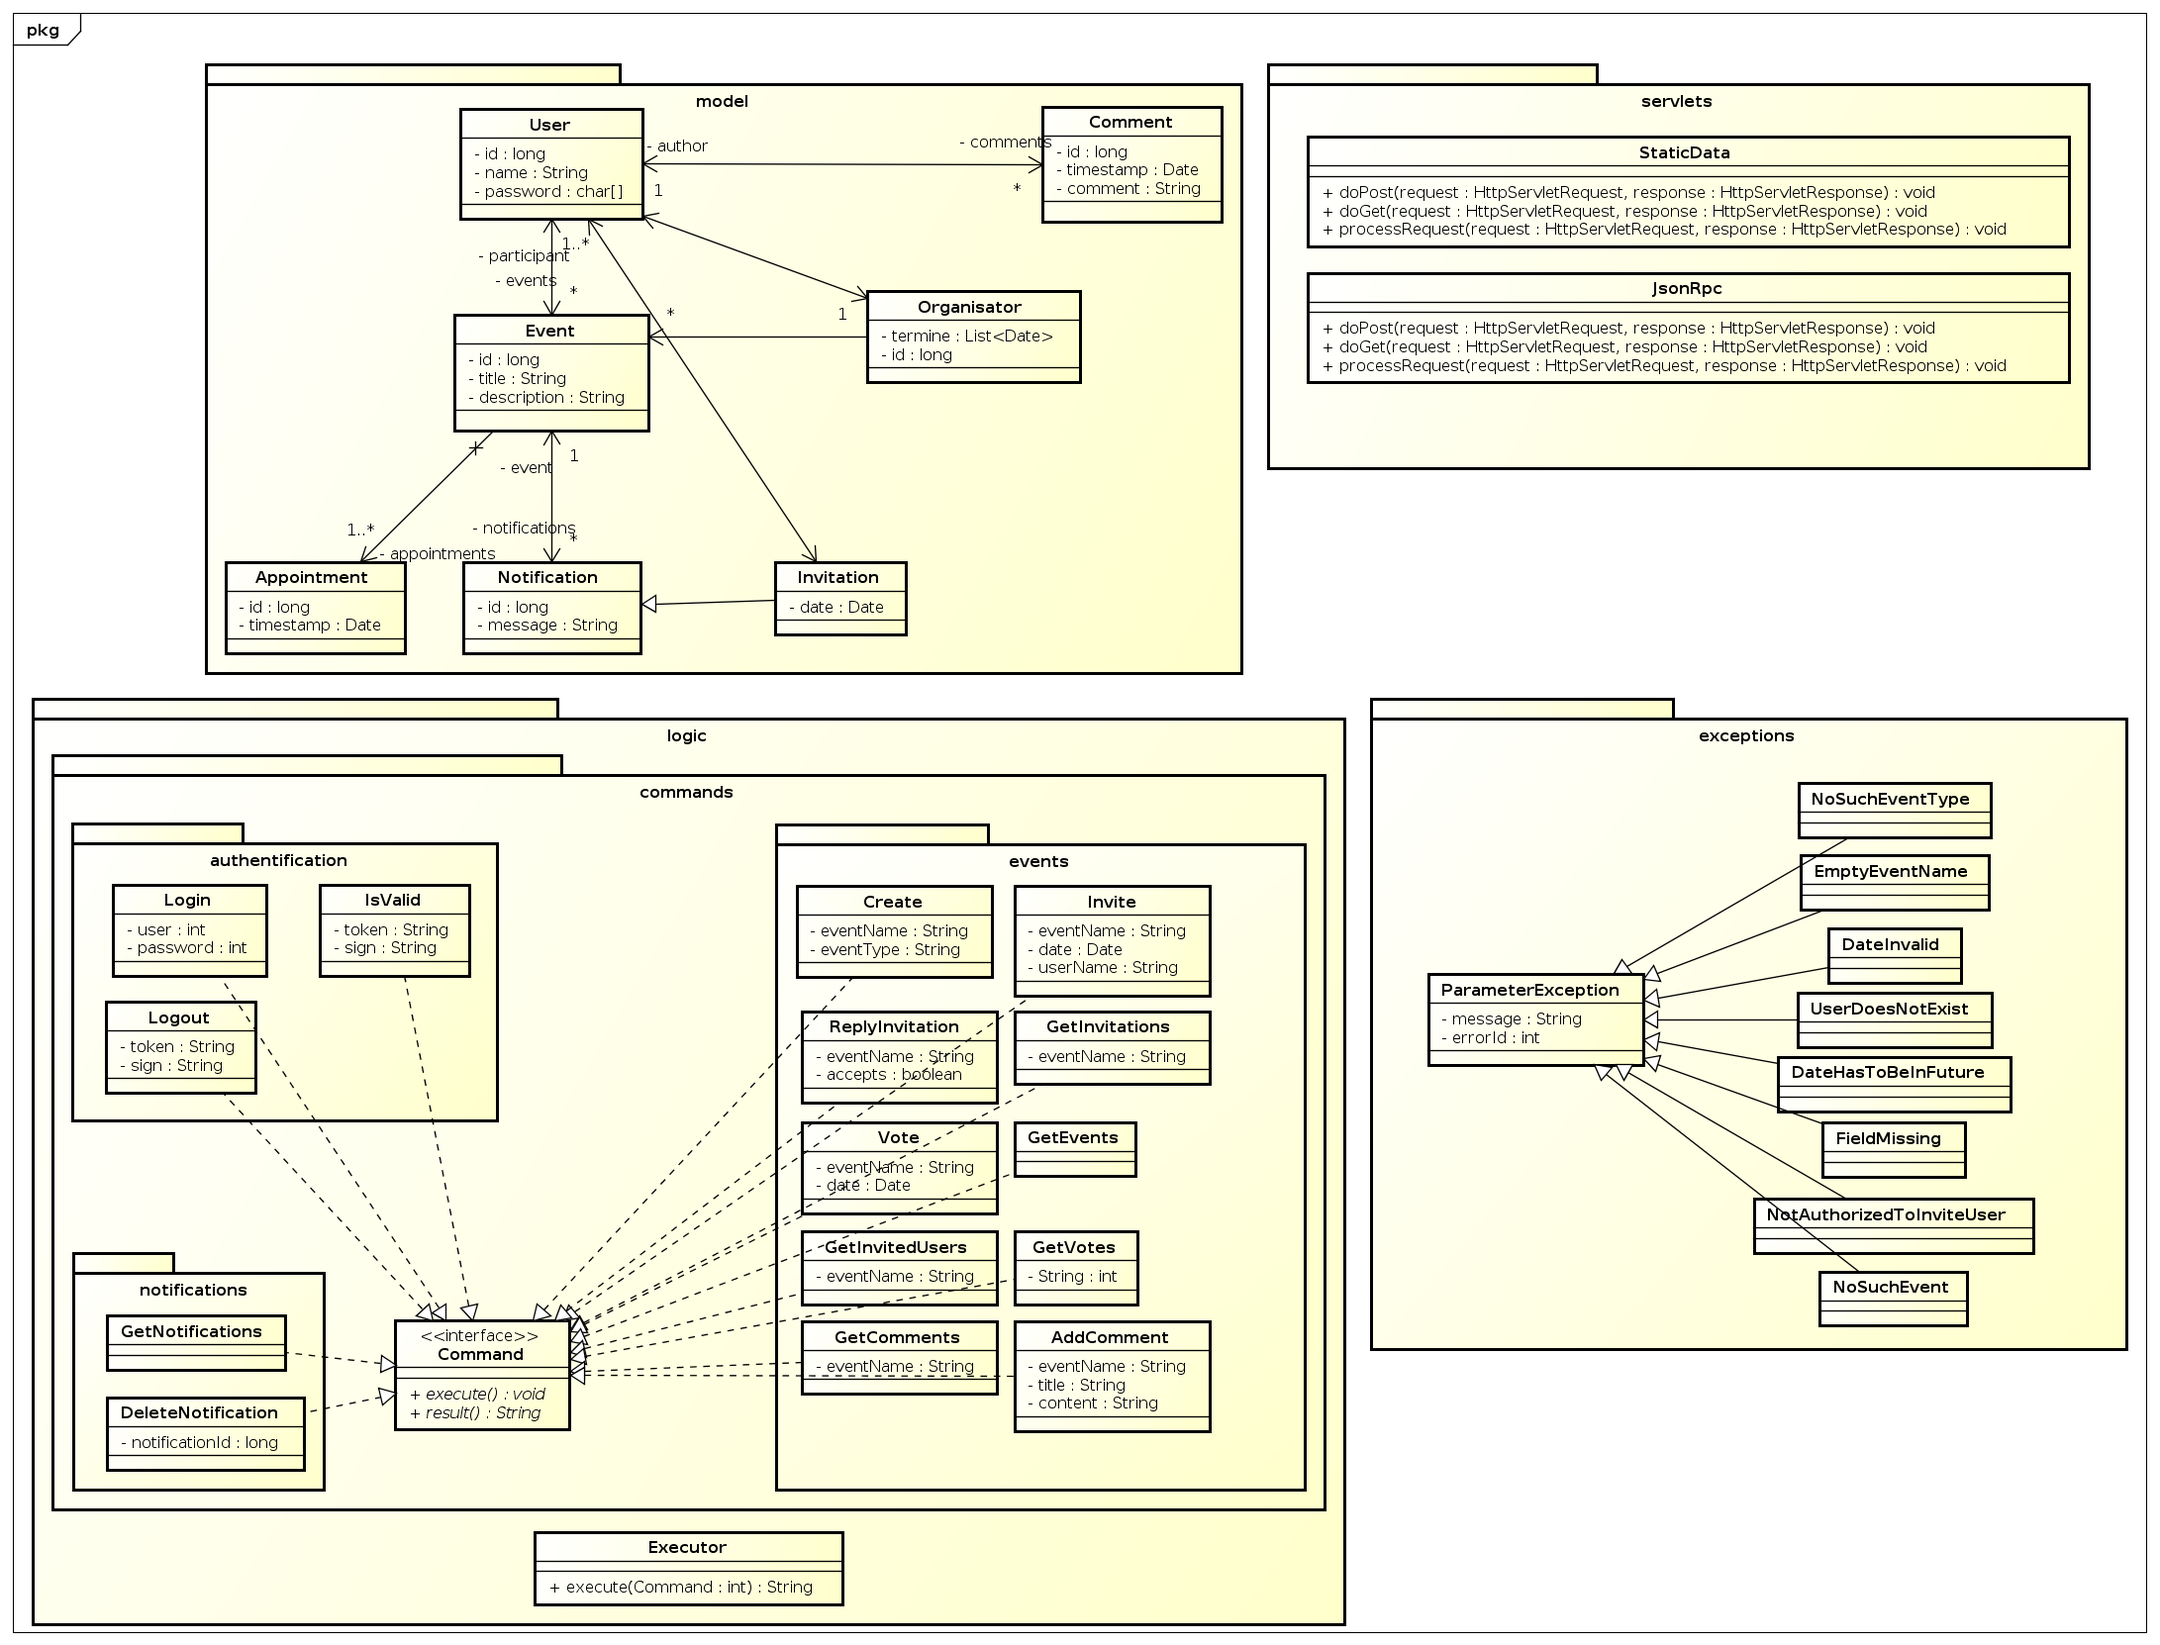
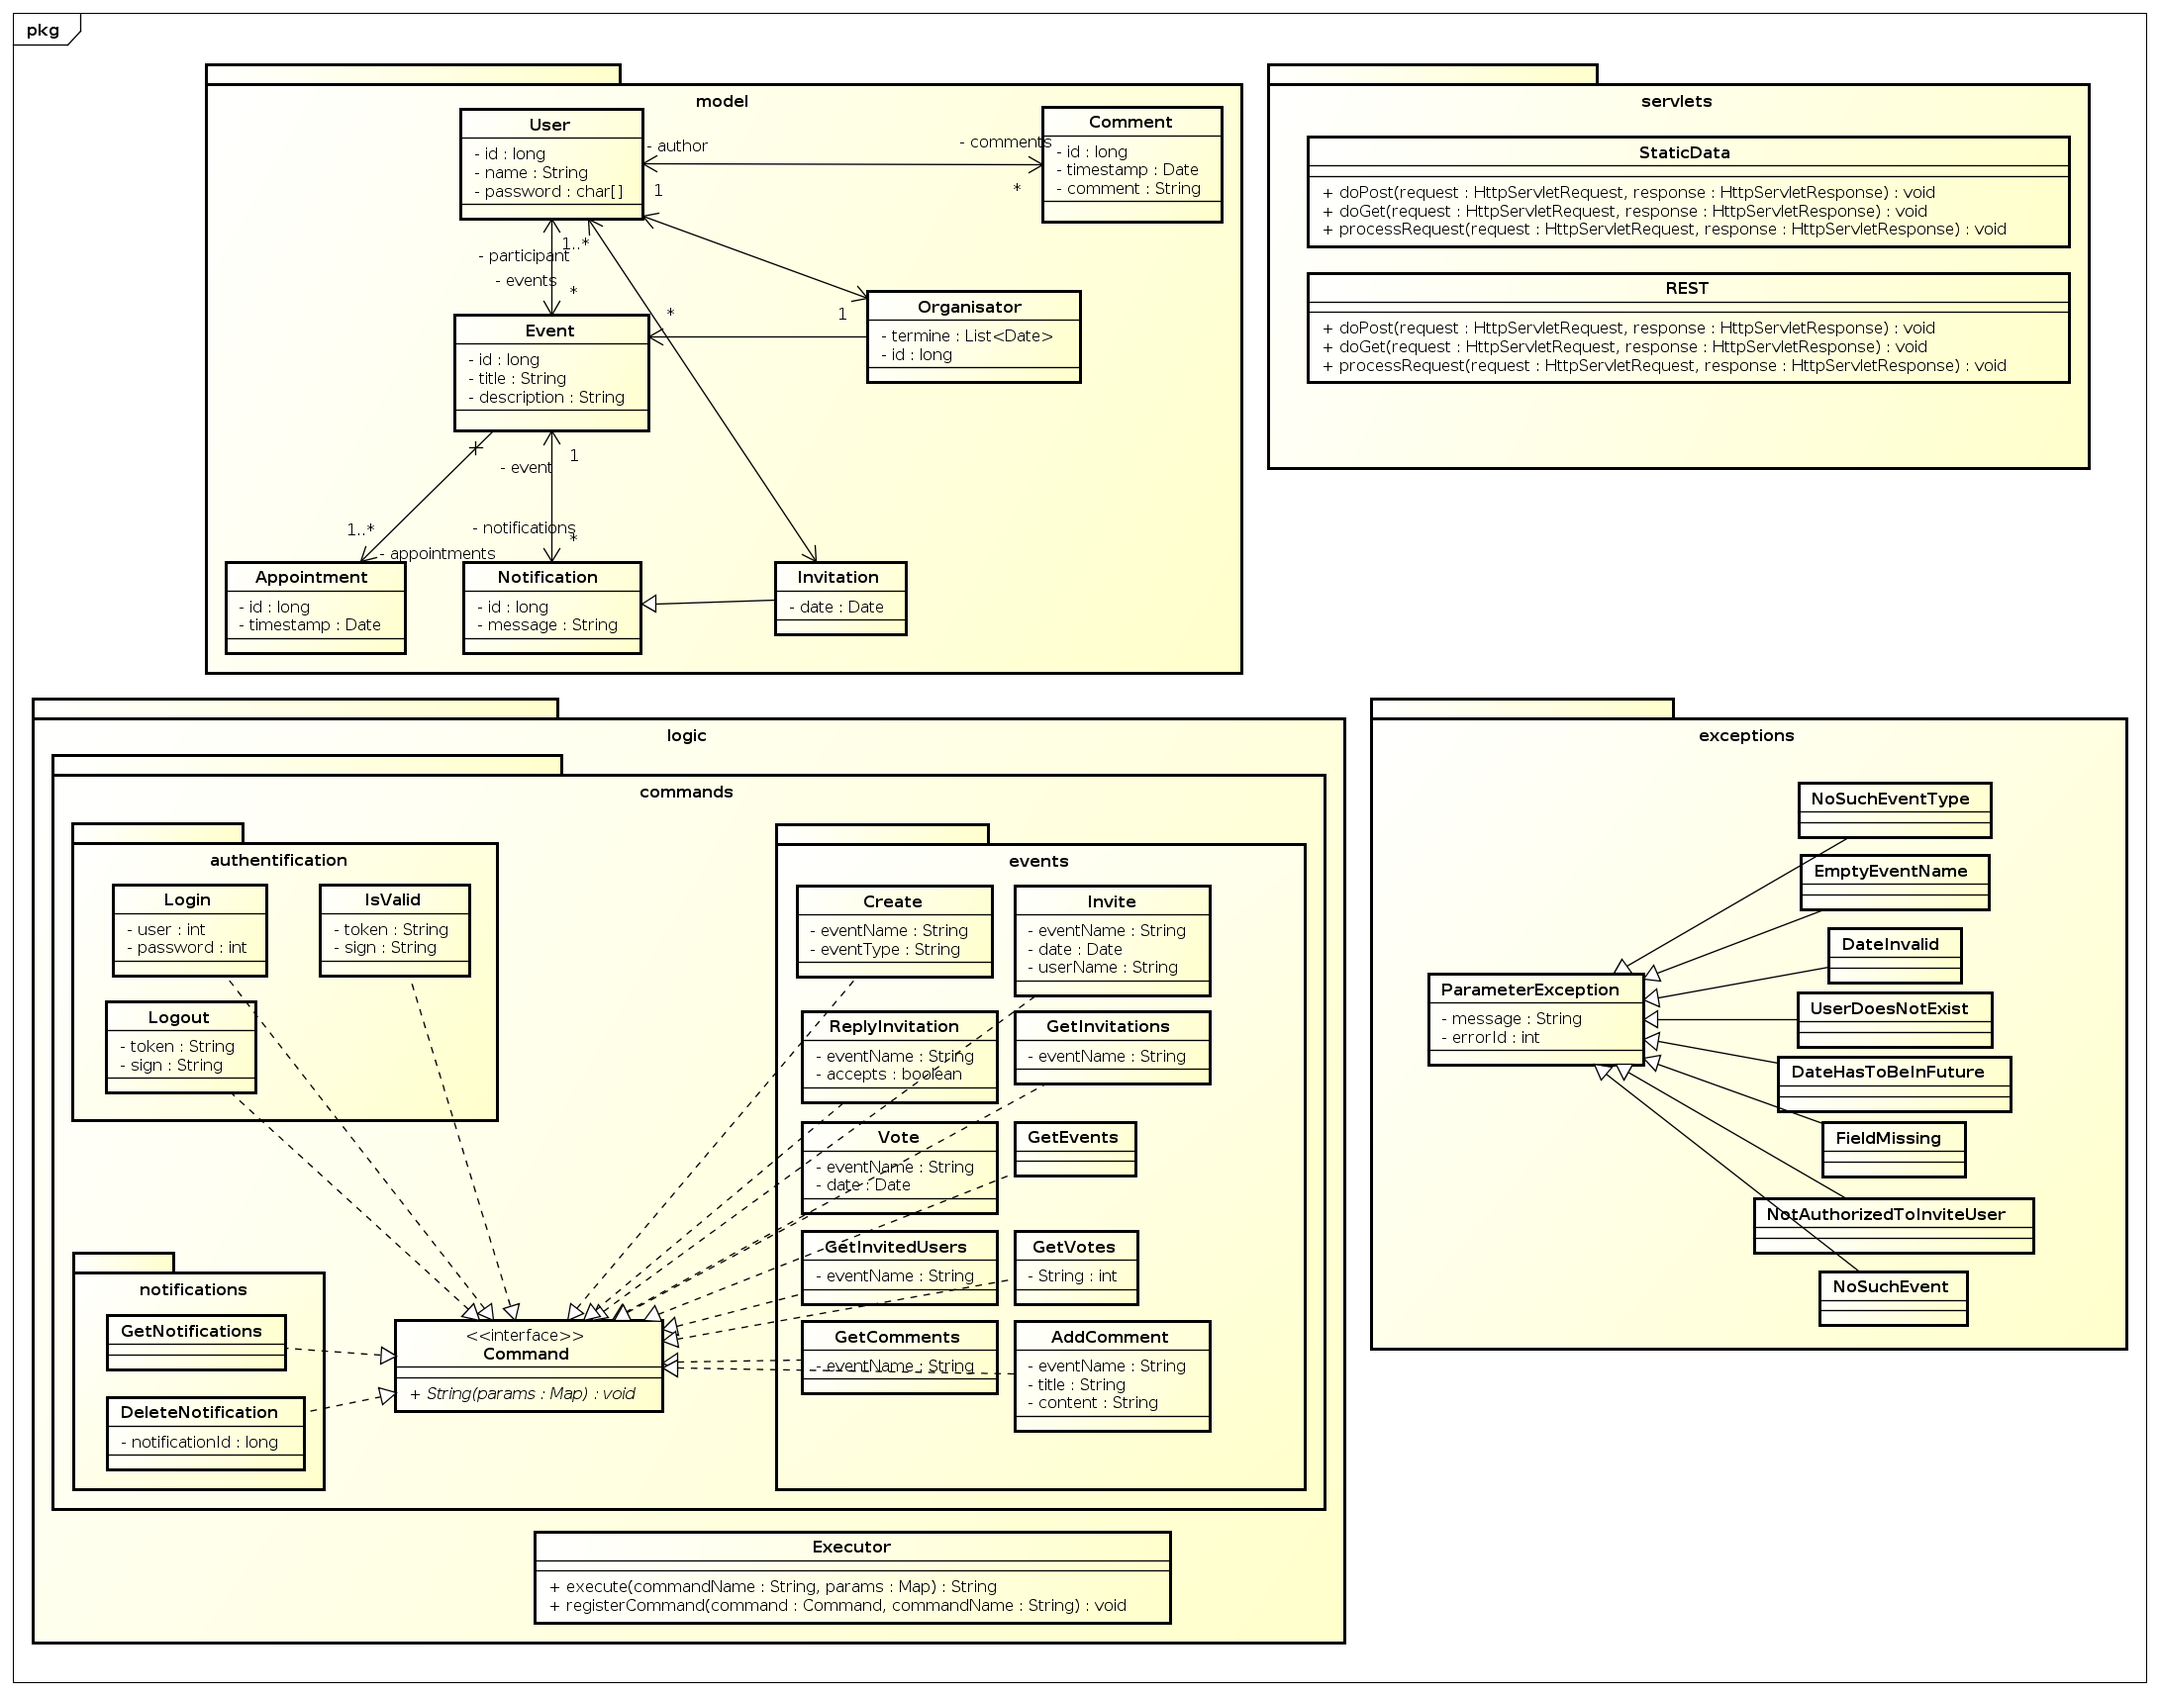
Commandpattern (Executer)

diff --git a/src/main/java/kehd/bigpicture/servlets/REST.java b/src/main/java/kehd/bigpicture/servlets/REST.java
@@ -1,9 +1,58 @@
 package kehd.bigpicture.servlets;
 
+import javax.servlet.ServletException;
 import javax.servlet.http.HttpServlet;
+import javax.servlet.http.HttpServletRequest;
+import javax.servlet.http.HttpServletResponse;
+import java.io.IOException;
+import java.io.PrintWriter;
 
 /**
  * Created by jakob on 5/28/14.
  */
 public class REST extends HttpServlet {
+    /**
+     * Initialize PrimeSearcher Servlet
+     */
+    @Override
+    public void init() {
+    }
+
+    @Override
+    protected void doPost(HttpServletRequest request, HttpServletResponse response)
+            throws
+            ServletException,
+            IOException
+    {
+        processRequest(request, response);
+    }
+
+    @Override
+    protected void doGet(HttpServletRequest request, HttpServletResponse response)
+            throws
+            ServletException,
+            IOException
+    {
+        processRequest(request, response);
+    }
+
+    /**
+     * Answers both get and post requests
+     *
+     * @param request request
+     * @param response  response callback
+     * @throws IOException
+     */
+    private void processRequest(HttpServletRequest request, HttpServletResponse response)
+            throws
+            IOException
+    {
+        PrintWriter out = response.getWriter();
+        out.println();
+    }
+
+    @Override
+    public void destroy()
+    {
+    }
 }

diff --git a/src/main/java/kehd/bigpicture/logic/Executor.java b/src/main/java/kehd/bigpicture/logic/Executor.java
@@ -1,9 +1,48 @@
 package kehd.bigpicture.logic;
 
-public class Executor {
+import kehd.bigpicture.logic.commands.Command;
 
-	public String execute(int Command) {
-		return null;
+import java.util.HashMap;
+import java.util.Map;
+
+/**
+ * Commands koennen unter einem Namen abgelegt werden
+ * und spaeter unter diesem aufgerufen werden.
+ *
+ * Dies ermöglicht eine lose Kopplung zwischen Aufruf
+ * und Implementierung.
+ */
+public class Executor {
+    private Map<String, Command> commandMapping;
+
+    /**
+     * Neue Instanz ohne Command Mappings
+     */
+    public Executor() {
+        commandMapping = new HashMap<>();
+    }
+
+    /**
+     * Fuehrt ein Command aus
+     *
+     * @param commandName Name des Commands
+     * @param params Map mit Parametern
+     * @return Rückgabe des Commands
+     */
+	public String execute(String commandName, Map<String, String> params) {
+        String result;
+        Command command = commandMapping.get(commandName);
+        result = command.execute(params);
+		return result;
 	}
 
+    /**
+     * Registriert ein Command unter gegebenen Namen
+     *
+     * @param command Command
+     * @param commandName Name des Commands
+     */
+    public void registerCommand(Command command, String commandName) {
+        commandMapping.put(commandName, command);
+    }
 }

diff --git a/src/main/java/kehd/bigpicture/logic/commands/Command.java b/src/main/java/kehd/bigpicture/logic/commands/Command.java
@@ -1,9 +1,9 @@
 package kehd.bigpicture.logic.commands;
 
+import java.util.Map;
+
 public interface Command {
 
-	public abstract void execute();
-
-	public abstract String result();
+	public abstract String execute(Map<String, String> params);
 
 }
